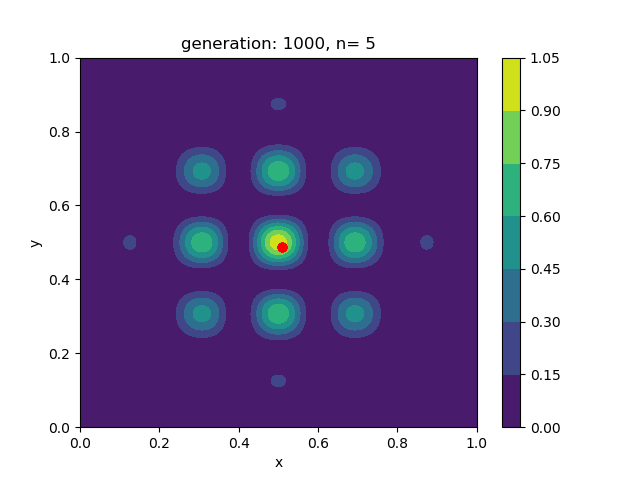
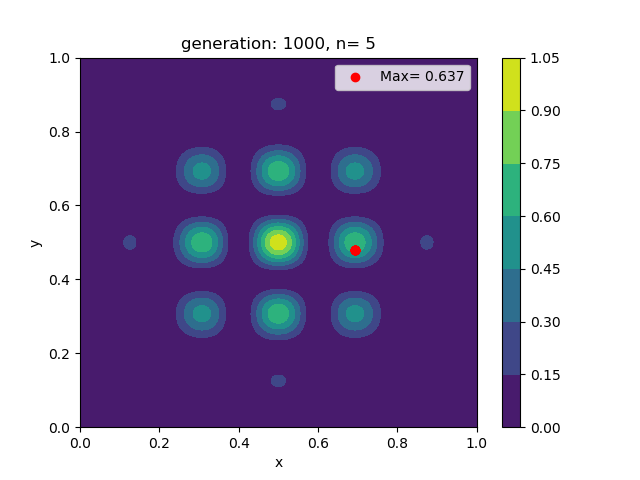
last changes to GA plots

Changed region(s): [[0.5, 0.125, 0.75, 0.2188], [0.5312, 0.5, 0.5625, 0.5312], [0.4375, 0.5, 0.4688, 0.5312]]

diff --git a/GA/test_ga.py b/GA/test_ga.py
@@ -9,10 +9,10 @@ plot = F_plt(nn)
 ## 1. Construct a random initial population and evaluate the fitness of it.
 n_parents = 10
 population = np.random.random((n_parents,2))
-## plotting initial population
-#plot.plt2(population,0,nn)
-print('Initial population: ', population.shape[0])
+#print('Initial population: ', population.shape[0])
 fitnesses = fitness(population,nn=nn)
+## plotting initial population
+plot.plt2(population,0,nn,max=np.max(fitnesses))
 fittest_parent = []
 median_parents = []
 fittest_parent.append(np.max(fitnesses))
@@ -53,7 +53,8 @@ for n_gen in range(n_gens):
     fittest_parent.append(np.max(parents_fitness))
     median_parents.append(np.median(parents_fitness))
     #print(fittest_parent,median_fitness_parents)
-    #if n_gen in [0,1,2,3,4,5,6,7,8,9,19,49,99,199,499,999,1999,2999,3999,4999]: plot.plt2(parents, n_gen +1, nn)
+    if n_gen in [0,1,2,3,4,5,6,7,8,9,19,49,99,199,499,999,1999,2999,3999,4999]:
+        plot.plt2(parents, n_gen +1, nn,max=np.max(parents_fitness))
     ## 5. Test convergence
     fittest = fitness(parents,nn=nn)
     e = abs(1-fittest[0])
@@ -62,16 +63,16 @@ for n_gen in range(n_gens):
     if  e < tolerance:
         print('We did it! It took ' + str(n_gen) + ' generations.')
         print(parents[0],fittest[0])
-        #plot.plt2(parents, n_gen, nn)
+        plot.plt2(parents, n_gen, nn,max=fittest[0])
         break
-plt.figure()
-plt.title('Fitness score evolution for n=' + str(nn))
-plt.xlabel('generation')
-plt.ylabel('fitness score')
-plt.ylim(0,1.1)
-plt.xticks(np.arange(0,24,4))
-plt.plot(fittest_parent[:20],'k.-',label='max fitness')
-plt.plot(median_parents[:20],'b.-',label='median fitness')
-plt.legend()
-plt.savefig('score_evol_n_' + str(nn) + '.png')
-plt.close()
+# plt.figure()
+# plt.title('Fitness score evolution for n=' + str(nn))
+# plt.xlabel('generation')
+# plt.ylabel('fitness score')
+# plt.ylim(0,1.1)
+# plt.xticks(np.arange(0,24,4))
+# plt.plot(fittest_parent[:20],'k.-',label='max fitness')
+# plt.plot(median_parents[:20],'b.-',label='median fitness')
+# plt.legend()
+# plt.savefig('score_evol_n_' + str(nn) + '.png')
+# plt.close()

diff --git a/GA/ga.py b/GA/ga.py
@@ -158,7 +158,7 @@ class F_plt:
         g_f = (16*X*(1-X)*Y*(1-Y)*np.sin(self.n*np.pi*X)*np.sin(self.n*np.pi*Y))**2
         return g_f
 
-    def plt2(self,population,n_gen,nn):
+    def plt2(self,population,n_gen,nn,max):
         x = np.linspace(0.,1.,1_000)
         XY = np.array([x,x]) # new rules, now eval gets one array
         X,Y = np.meshgrid(XY[0],XY[1])
@@ -166,7 +166,9 @@ class F_plt:
         fig,ax = plt.subplots(1,1)
         cp = ax.contourf(X, Y, z)
         fig.colorbar(cp)
-        plt.scatter(population[:,0],population[:,1], color='r')
+        max = 'Max= ' + str(max)[:5]
+        plt.scatter(population[:,0],population[:,1], color='r',label=max)
+        plt.legend()
         plt.title("generation: " + str(n_gen) + ', n= ' + str(nn))
         plt.xlabel('x')
         plt.ylabel('y')
